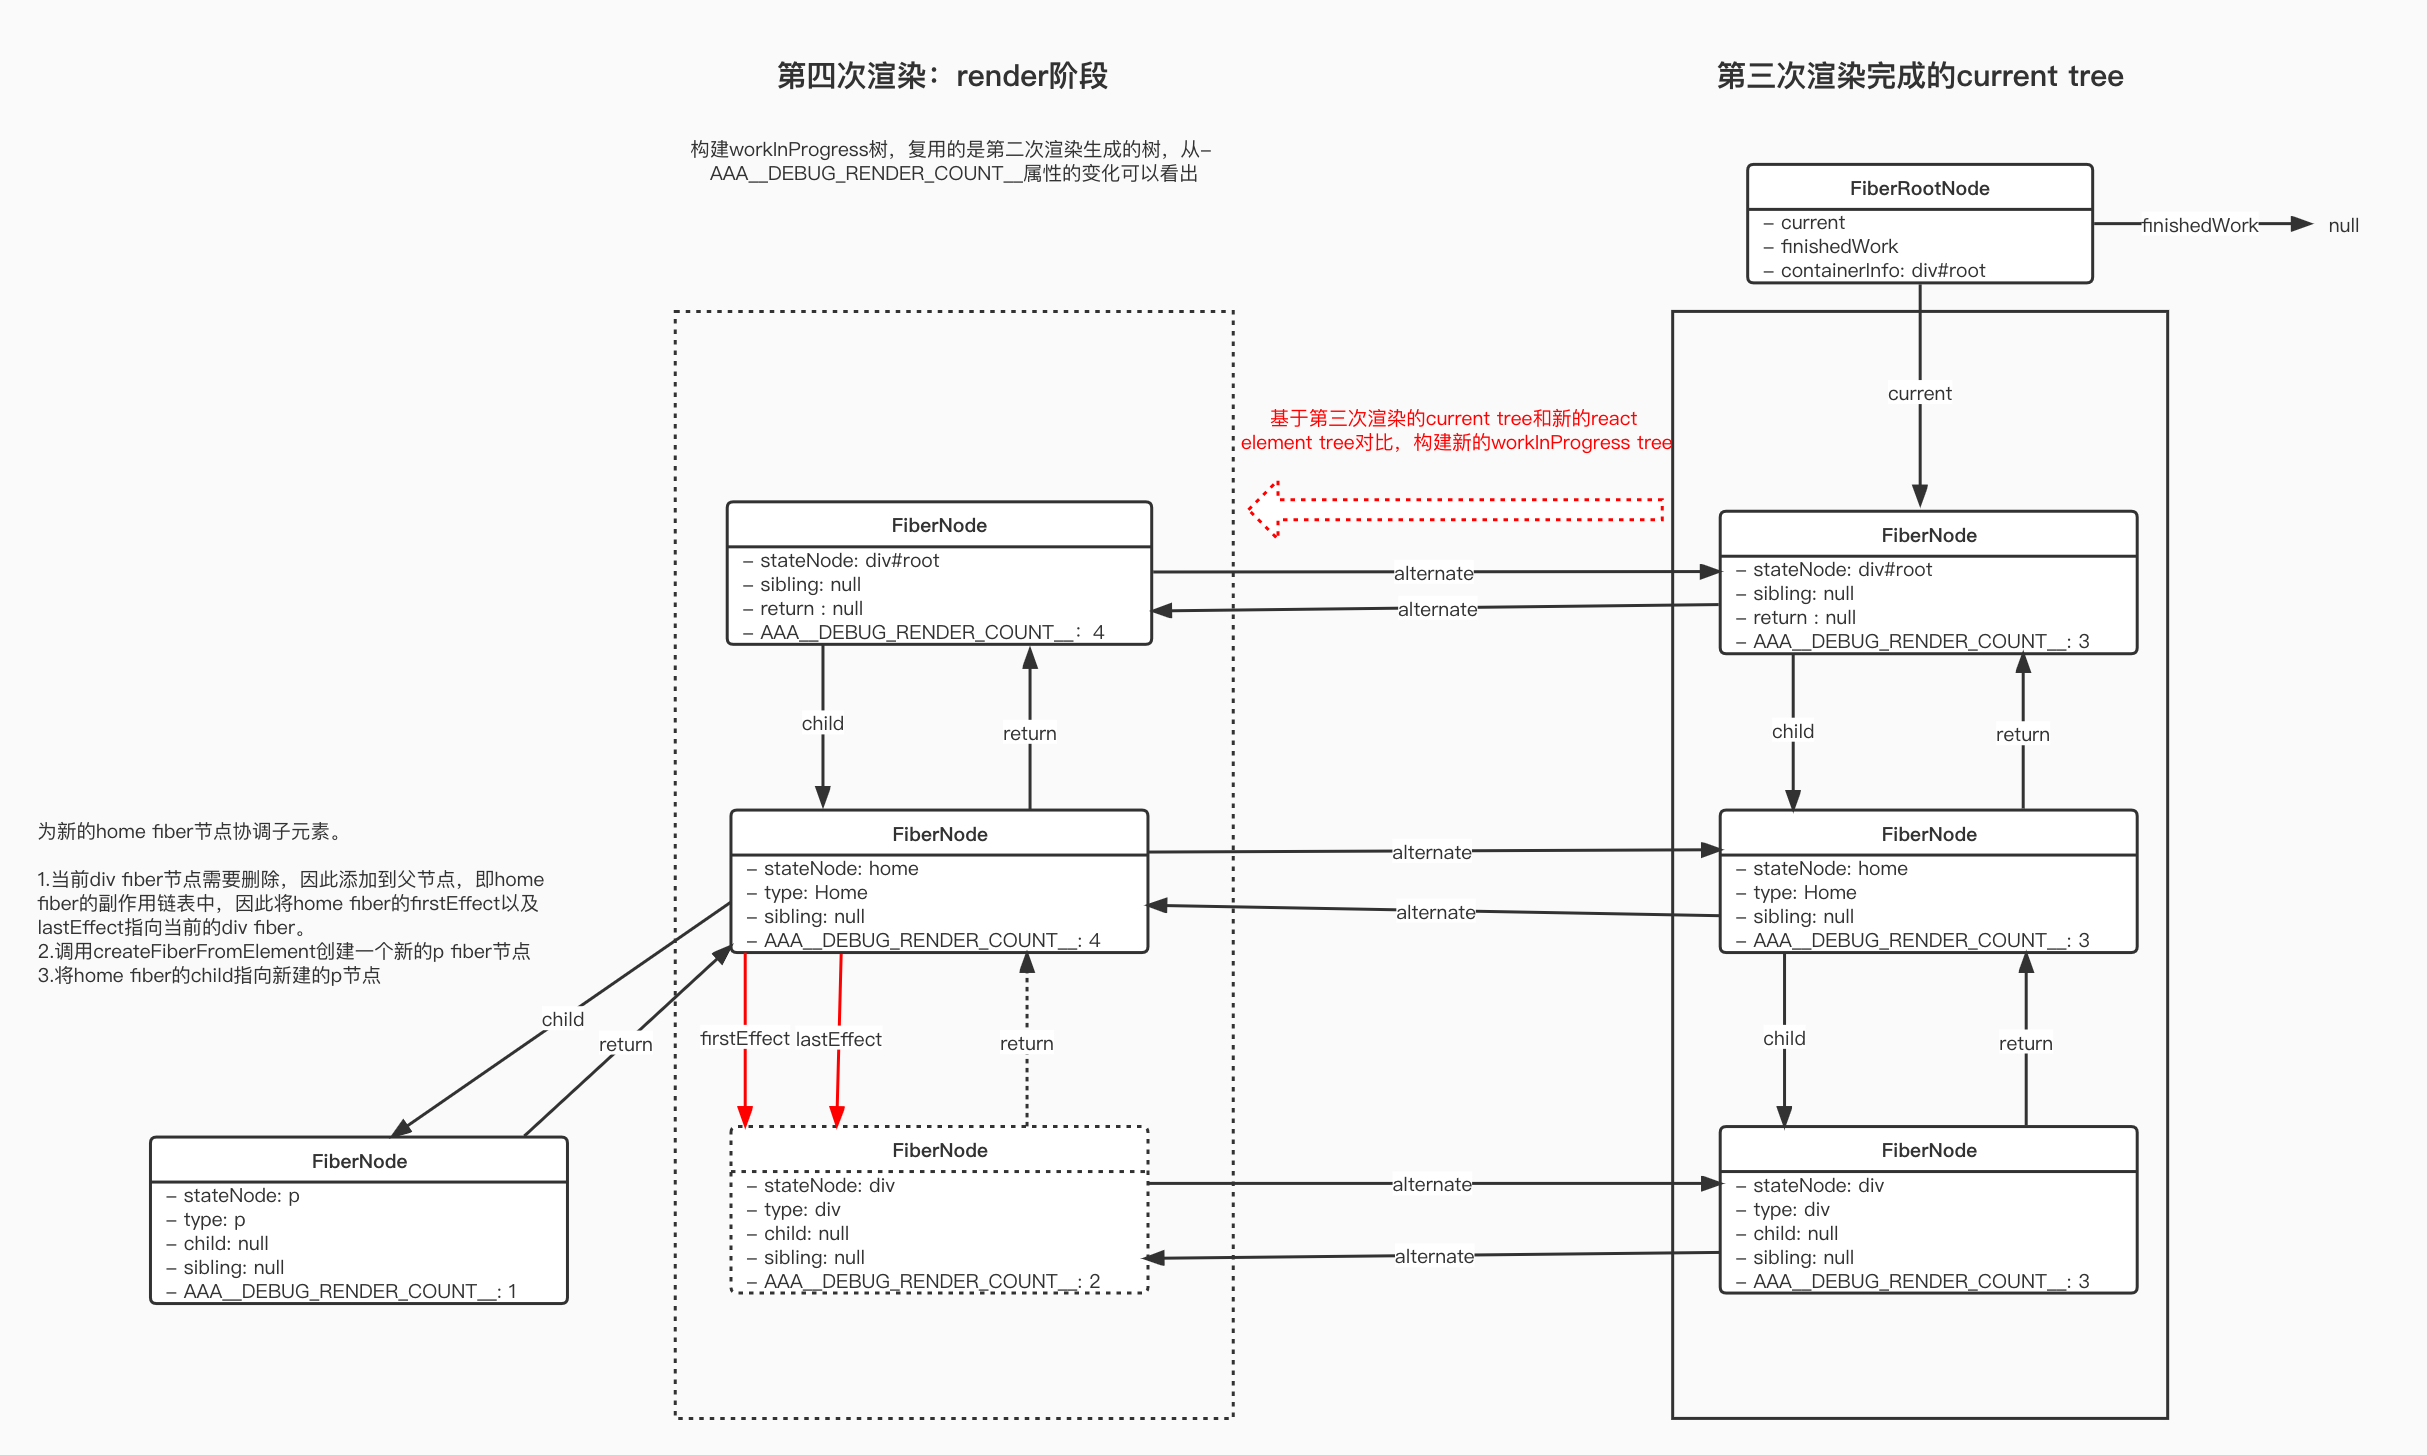
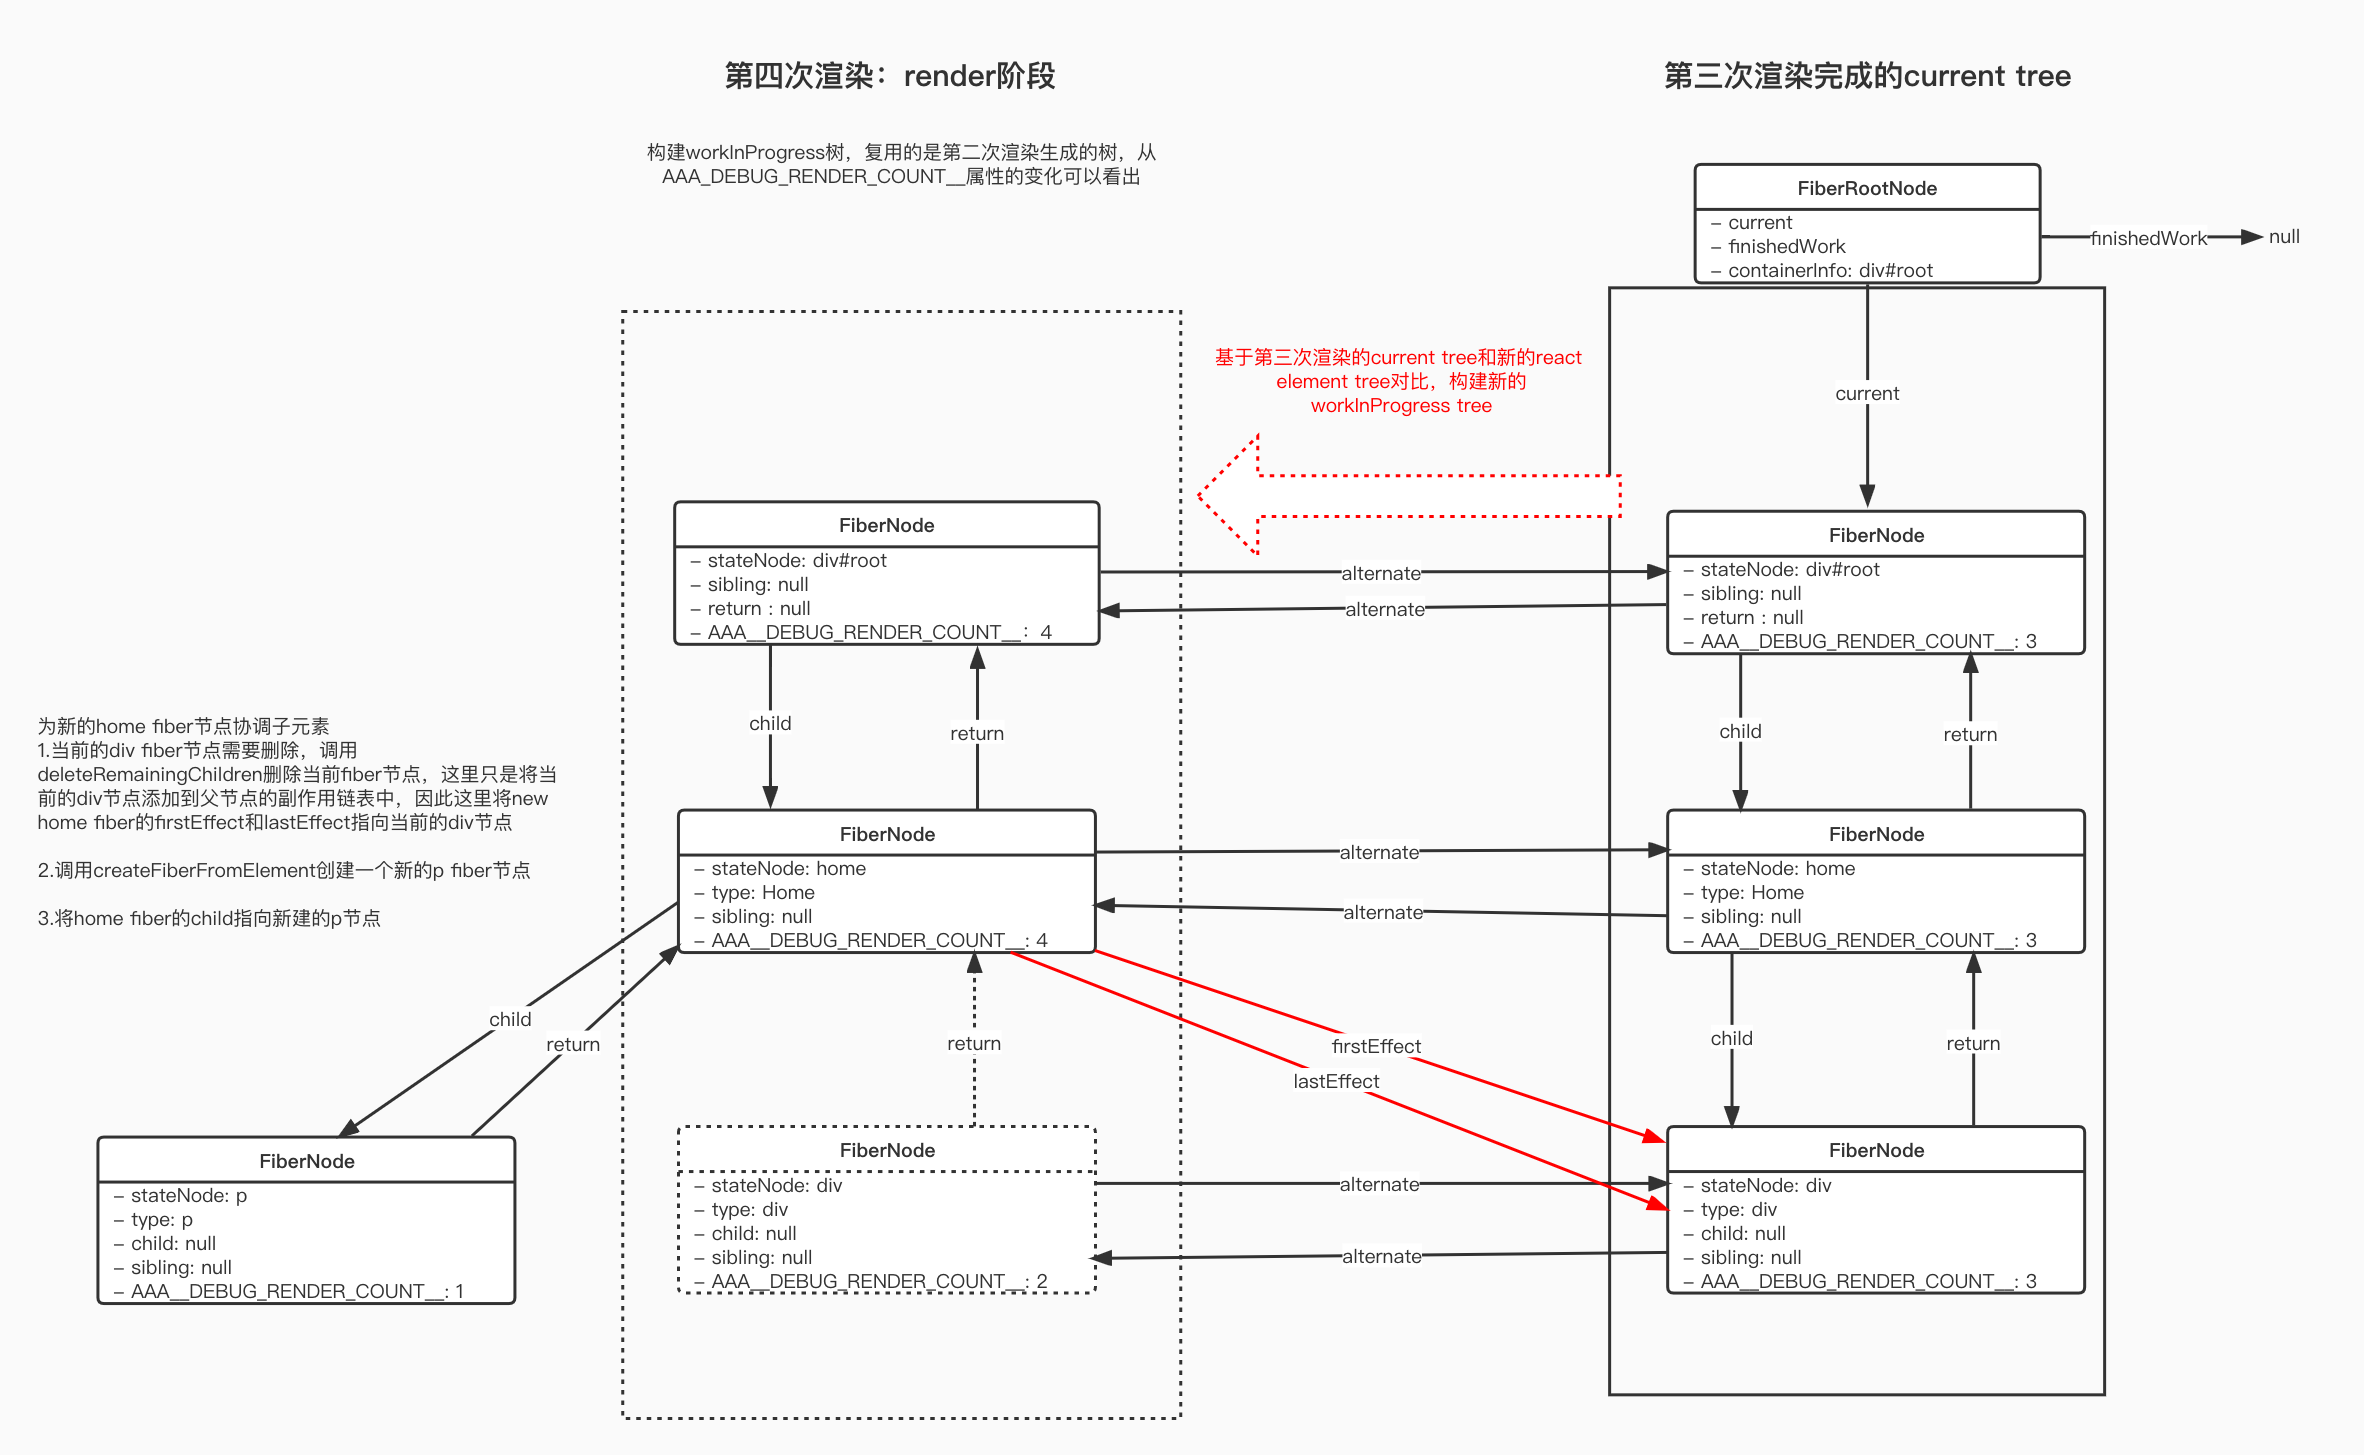
feat: fiber双缓冲树完毕

diff --git a/src/alternate.jsx b/src/alternate.jsx
@@ -15,8 +15,8 @@ class Home extends React.Component {
   render() {
     const { step } = this.state;
     return step < 3 ? (
-      <div id={step} onClick={this.handleClick}>
-        {step}
+      <div id={"parent" + step} onClick={this.handleClick}>
+        <div id={"test" + step}>{step}</div>
       </div>
     ) : (
       <p id={step} onClick={this.handleClick}>

diff --git a/docs/fiber/fiber双缓冲树.md b/docs/fiber/fiber双缓冲树.md
@@ -509,15 +509,28 @@ render 阶段结束，workInProgress 树构建完成，此时我们得到一棵 
 
 #### render 阶段结束，commit 阶段开始前
 
-render 阶段结束，workInProgress 树构建完成，此时我们得到一棵 finishedWork 树。在 `performSyncWorkOnRoot` 函数中，我们将 finishedWork 树保存到容器的 finishedWork 属性上。
+render 阶段结束，workInProgress 树构建完成，此时我们得到一棵 finishedWork 树，以及一个副作用链表。在 `performSyncWorkOnRoot` 函数中，我们将 finishedWork 树保存到容器的 finishedWork 属性上。
+
+实际上，React 在每次 render 阶段都会收集副作用节点，并构建副作用链表，我在前三次渲染中省略了这个步骤。第四次渲染介绍一下副作用链表的构建，因为这涉及到后面 commit 阶段遍历副作用链表，删除节点，插入节点的情况，可以查看[React 构建副作用链表算法](https://github.com/lizuncong/mini-react/blob/master/docs/reconciler/%E6%9E%84%E5%BB%BA%E5%89%AF%E4%BD%9C%E7%94%A8%E9%93%BE%E8%A1%A8%E7%AE%97%E6%B3%95.md)了解 React 如何构建副作用链表
+
+render 阶段结束后，我们最终得到的 finishedWork 树和辅作用链表(图中红线所示)如下图：
 
 ![image](https://github.com/lizuncong/mini-react/blob/master/imgs/double-fiber-25.jpg)
 
 #### commit 阶段
 
-commit 阶段需要删除旧的 div 节点，然后创建新的 p 节点。这两个过程都发生在`commitMutationEffects`阶段，这个阶段操作真实的 dom 节点，并释放掉 fiber 的内存。
+commit 阶段遍历副作用节点，根据对应的副作用标志`fiber.flags`执行对应的操作。在我们的案例中，相应的副作用就是删除 div 节点，插入 p 节点。这两个过程都发生在`commitMutationEffects`阶段，这个阶段操作真实的 dom 节点，并释放掉 fiber 的内存。
 
-- 首先调用 `commitDeletion` 删除真实的 div dom 节点，其次调用`detachFiberMutation`释放 fiber 内存
+`commitMutationEffects`遍历副作用链表，第一个节点是 div 节点，这个节点需要删除，调用 `commitDeletion` 删除节点
+
+`commitDeletion`主要工作如下：
+
+- 调用 `unmountHostComponents` 删除真实的 dom 节点
+
+- 其次调用`detachFiberMutation`重置 div 节点(AAA_DEBUG_RENDER_COUNT 属性为 3)的各种属性，以释放内存。重点关注 div fiber 的 return、child、alternate 指针的重置，同时需要注意，sibling 属性和 stateNode 属性不是在这个时候释放掉的。
+- 然后调用 `detachFiberMutation`重置 div 节点(AAA_DEBUG_RENDER_COUNT 属性为 3)的备用节点，即 AAA_DEBUG_RENDER_COUNT 属性为 2 的 div 节点的属性，以释放内存。此时内存中已经没有节点引用这个备用节点，但是这个备用节点还是会引用 stateNode，
+
+`detachFiberMutation` 函数如下：
 
 ```js
 function detachFiberMutation(fiber) {
@@ -546,3 +559,141 @@ function detachFiberMutation(fiber) {
   fiber.updateQueue = null;
 }
 ```
+
+至此，对于 div 节点的删除工作已经完成，下一个需要执行的副作用节点是 p 节点，调用`commitPlacement`插入真实的 p dom 节点。
+
+`commitMutationEffects` 函数执行完成后，此时的双缓冲树如下：
+
+![image](https://github.com/lizuncong/mini-react/blob/master/imgs/double-fiber-26.jpg)
+
+`commitMutationEffects` 函数执行完成，finishedWork 树已经变成了 current 树
+
+![image](https://github.com/lizuncong/mini-react/blob/master/imgs/double-fiber-27.jpg)
+
+`commitLayoutEffects` 执行完成后，此时副作用链表已经没有用处，需要释放掉副作用链表的内存，这段逻辑在 `commitRootImpl` 函数中
+
+```js
+function commitRootImpl(root, renderPriorityLevel) {
+  var finishedWork = root.finishedWork;
+  root.finishedWork = null;
+  //....
+  commitBeforeMutationEffects();
+  //....
+  commitMutationEffects(root, renderPriorityLevel);
+  //....
+  commitLayoutEffects(root, lanes);
+  //....
+  // We are done with the effect chain at this point so let's clear the
+  // nextEffect pointers to assist with GC. If we have passive effects, we'll
+  // clear this in flushPassiveEffects.
+  nextEffect = firstEffect;
+  while (nextEffect !== null) {
+    var nextNextEffect = nextEffect.nextEffect;
+    nextEffect.nextEffect = null;
+    if (nextEffect.flags & Deletion) {
+      detachFiberAfterEffects(nextEffect);
+    }
+    nextEffect = nextNextEffect;
+  }
+  //...
+}
+function detachFiberAfterEffects(fiber) {
+  fiber.sibling = null;
+  fiber.stateNode = null;
+}
+```
+
+- 首先重置副作用节点的 nextEffect 为 null
+- 其次判断如果节点是被删除的，则调用 detachFiberAfterEffects 函数重置 sibling 和 stateNode 为 null
+
+整个 commit 阶段已经结束，此时内存中的双缓冲树状态如下：
+
+![image](https://github.com/lizuncong/mini-react/blob/master/imgs/double-fiber-28.jpg)
+
+**根据图中可以看出，左边的 div fiber 节点(AAA_DEBUG_RENDER_COUNT 属性为 2)已经没有任何节点引用它了，可以被 GC 回收内存。但是我们看右边的 div fiber 节点(AAA_DEBUG_RENDER_COUNT 属性为 3)的节点还有 child 以及 firstEffect 指针引用着，因此这个节点不会在本次 GC 期间被回收，而是等下一次渲染更新完成后才会被 GC 回收**
+
+### 子树删除的场景
+
+这次我们使用下面的 demo，看看删除子树的时候，React 是怎么释放内存的
+
+```jsx
+import React from "react";
+import ReactDOM from "react-dom";
+
+class Home extends React.Component {
+  constructor(props) {
+    super(props);
+    this.state = { step: 0 };
+    this.handleClick = this.handleClick.bind(this);
+  }
+  handleClick() {
+    this.setState({
+      step: this.state.step + 1,
+    });
+  }
+  render() {
+    const { step } = this.state;
+    return step < 3 ? (
+      <div id={step} onClick={this.handleClick}>
+        <div id="test">{step}</div>
+      </div>
+    ) : (
+      <p id={step} onClick={this.handleClick}>
+        {step}
+      </p>
+    );
+  }
+}
+
+ReactDOM.render(<Home />, document.getElementById("root"));
+```
+
+这里我们直接从第四次点击按钮出发页面更新开始，当 render 阶段结束，commit 阶段开始前，我们将得到下面一棵 finishedWork 树以及副作用链表。这里我使用蓝色标记需要释放内存的 fiber 节点
+
+![image](https://github.com/lizuncong/mini-react/blob/master/imgs/double-fiber-29.jpg)
+
+`commitMutationEffects`阶段调用 `commitDeletetion` 方法删除 div fiber 节点，并重置 div fiber 的属性为 null
+
+下面就是整个 commit 阶段完成后，内存中双缓冲树的状态
+![image](https://github.com/lizuncong/mini-react/blob/master/imgs/double-fiber-30.jpg)
+这里我将需要删除的节点标记为蓝色并添加 `A`、`B`、`C`、`D`，方便后续的描述
+
+#### 内存泄漏风险分析
+
+从图中可以看出，A，B，C，D 都是需要被删除的节点。
+
+先来看 B，B 节点所有的属性已经被重置为 null，但是此时还有 home 的 child 以及 firstEffect 等属性引用着 B 节点。在本次更新完成，可想而知 B 节点的内存不会被释放。等到下一次更新完成时，由于 child 及 firstEffect 不再指向 B 节点，B 节点内存得到释放
+
+再来看 A 节点， A 节点(stateNode 属性)还引用着已经被删除的 div 真实 dom，这个 div 真实 dom 的`__reactFiber` 属性还引用着 A 节点。因此这里有一对循环引用，即
+
+```js
+fiberA.stateNode = div。
+div.__reactFiber = fiberA
+```
+
+再来看 C 和 D，C 和 D 的 stateNode 都没有被清空，同时 div#test 这个真实的 dom 节点的`__reactFiber`属性还引用着 C，C 和 D 通过 alternate 属性相互引用，这里的引用情况如下：
+
+```js
+fiberC.stateNode = div#test
+fiberC.return = fiberB
+div#test.__reactFiber = fiberC
+
+fiberD.stateNode = div#test
+fiberD.return = fiberA
+
+fiberD.alternate = fiberC.alternate
+```
+
+**综上可以看出，如果在采用引用计数的浏览器中，由于这些节点之间存在循环引用的情况，在垃圾回收期间不会被回收，因此有内存泄漏的风险。而在采用标记清除法的浏览器中，这些节点内存会被回收。这也是为什么在谷歌浏览器中并没有内存泄漏的风险**
+
+第四次渲染后内存中的 FiberNode 节点
+![image](https://github.com/lizuncong/mini-react/blob/master/imgs/double-fiber-31.jpg)
+
+第五次渲染后内存中的 FiberNode 节点
+![image](https://github.com/lizuncong/mini-react/blob/master/imgs/double-fiber-32.jpg)
+
+第六次渲染后，被删除的节点的内存已经被全部回收，因此从第六次开始，FiberNode 节点的数量都保持在 6 个
+
+![image](https://github.com/lizuncong/mini-react/blob/master/imgs/double-fiber-33.jpg)
+
+**综上也可以看出，被删除的节点至少要在后续两轮渲染更新完成后才能全部回收完毕**
